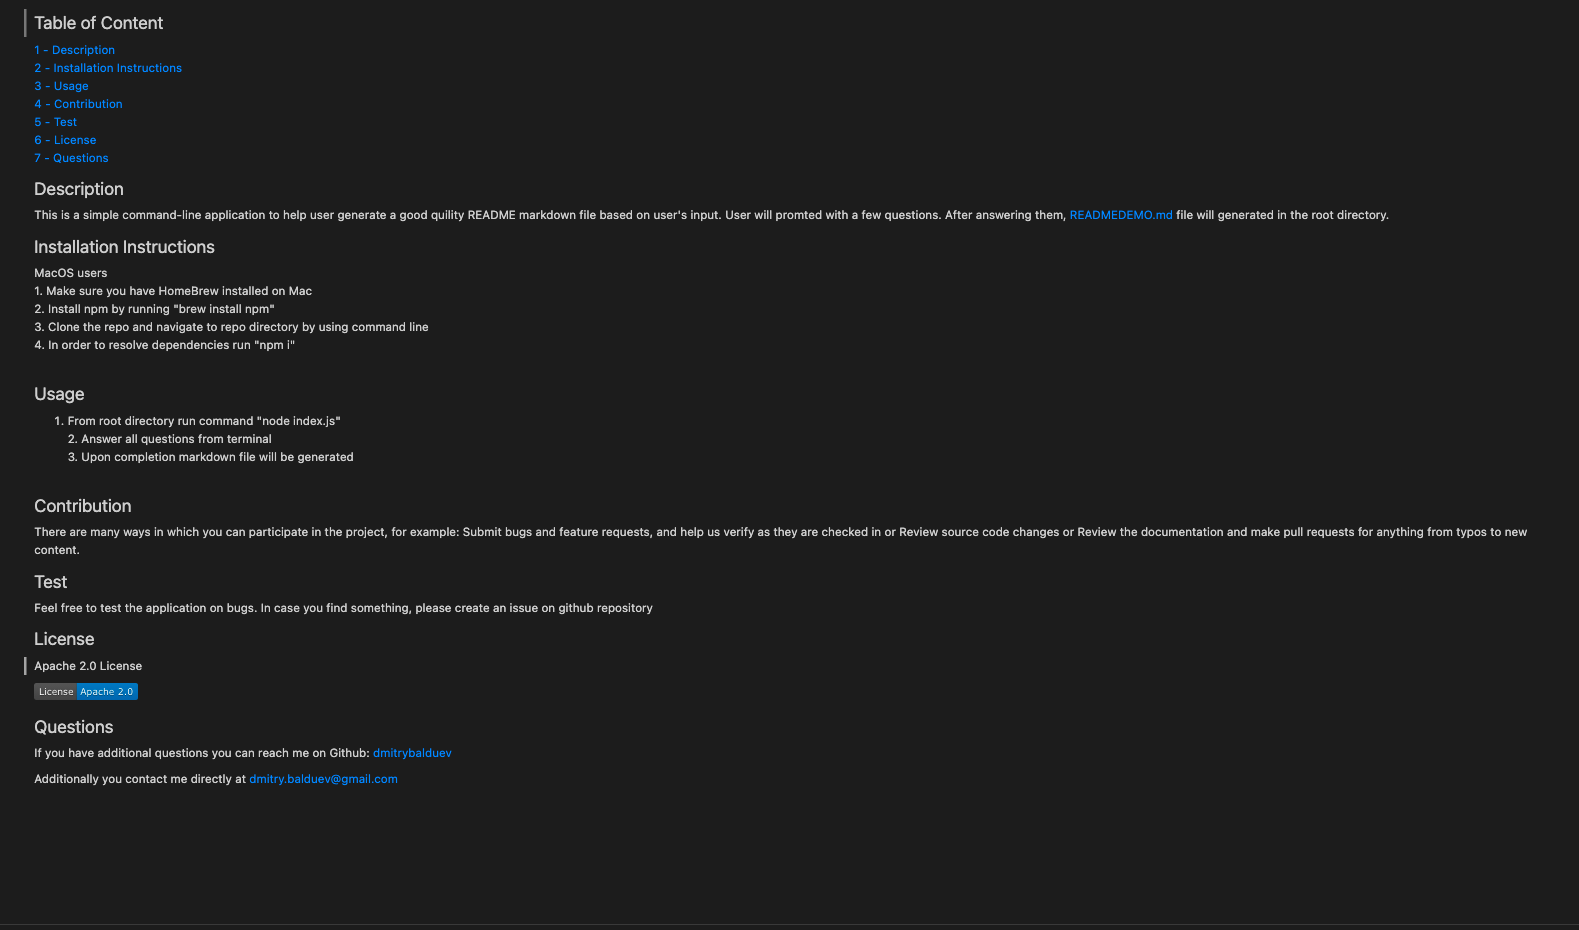
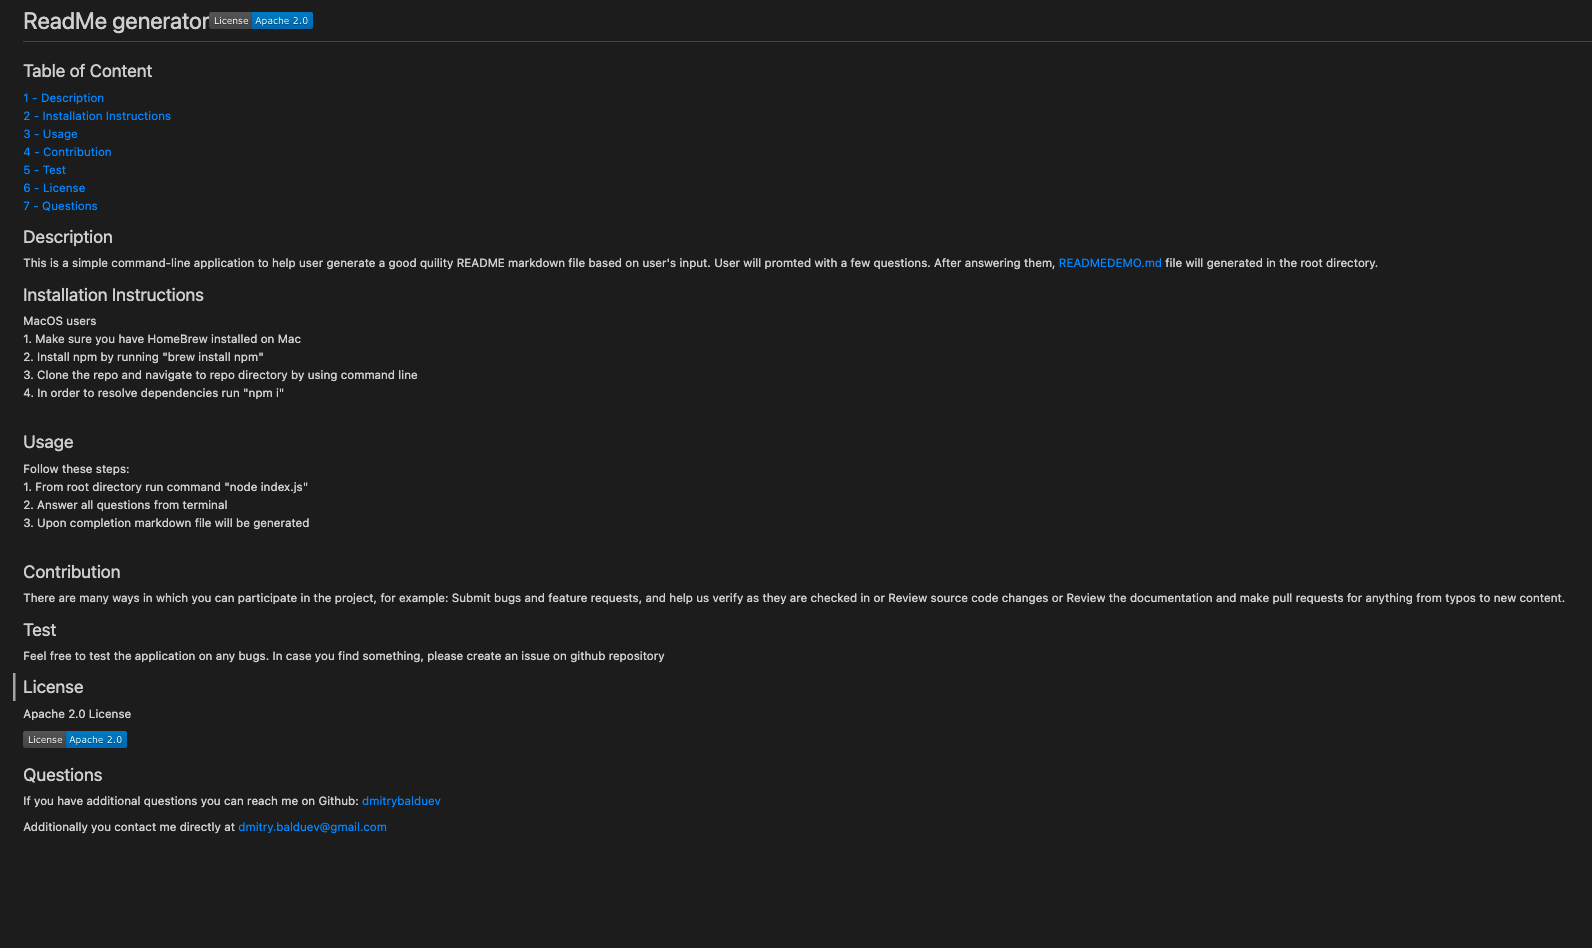
final commit

Changed region(s): [[0.0, 0.0, 0.993, 0.9043]]

diff --git a/utils/generateMarkdown.js b/utils/generateMarkdown.js
@@ -13,7 +13,8 @@ function renderLicenseBadge(license) {
 }
 
 function generateMarkdown(data) {
-    this.output =  "# " +data[0] +
+    this.output =  "# " +data[0] + "\n\n" +
+    renderLicenseBadge(data[7]) +
     "\n\n## Table of Content\n" + (data[2]) +
     "\n\n## Description\n" + data[1] + 
     "\n\n## Installation Instructions\n" + divideNextLine(data[3]) +

diff --git a/READMEDEMO.md b/READMEDEMO.md
@@ -1,5 +1,7 @@
 # README File Generator
 
+[![License](https://img.shields.io/badge/License-Apache%202.0-blue.svg)](https://opensource.org/licenses/Apache-2.0)
+
 ## Table of Content
 [1 - Description](##Description)<br/>[2 - Installation Instructions](##Installation-Instructions)<br/>[3 - Usage](##Usage)<br/>[4 - Contribution](##Contribution)<br/>[5 - Test](##Test)<br/>[6 - License](##License)<br/>[7 - Questions](##Questions)<br/>
 
@@ -10,13 +12,13 @@ This is a simple command-line application to help user generate a good quility R
 MacOS users<br/>1. Make sure you have HomeBrew installed on Mac<br/>2. Install npm by running "brew install npm"<br/>3. Clone the repo and navigate to repo directory by using command line<br/>4. In order to resolve dependencies run "npm i"<br/><br/>
 
 ## Usage
-1. From root directory run command "node index.js" <br/>2. Answer all questions from terminal<br/>3. Upon completion markdown file will be generated<br/><br/>
+Follow these steps:<br/>1. From root directory run command "node index.js" <br/>2. Answer all questions from terminal<br/>3. Upon completion markdown file will be generated<br/><br/>
 
 ## Contribution
 There are many ways in which you can participate in the project, for example: Submit bugs and feature requests, and help us verify as they are checked in or Review source code changes or Review the documentation and make pull requests for anything from typos to new content.
 
 ## Test
-Feel free to test the application on bugs. In case you find something, please create an issue on github repository
+Feel free to test the application on any bugs. In case you find something, please create an issue on github repository
 
 ## License
 

diff --git a/README.md b/README.md
@@ -25,6 +25,8 @@ MacOS users:
 2. Answer all questions from terminal. Some questions will be opened in editor mode, (for Mac users it will be vim) in order to start typing press key "i". Upon completion press "ESC" key and ":x!" to exit 
 3. When done, markdown file will be generated
 
+Here is short walkthrough video [click here](https://drive.google.com/file/d/1zFuqHi1jakk9LDihK1N3WMOfXYIwyuSL/view)
+
 Here are samples of how command line looks like and sample README file:
 ![Command Line questions](./utils/command-line.png)
 ![Sample README](./utils/sample-readme.png)
